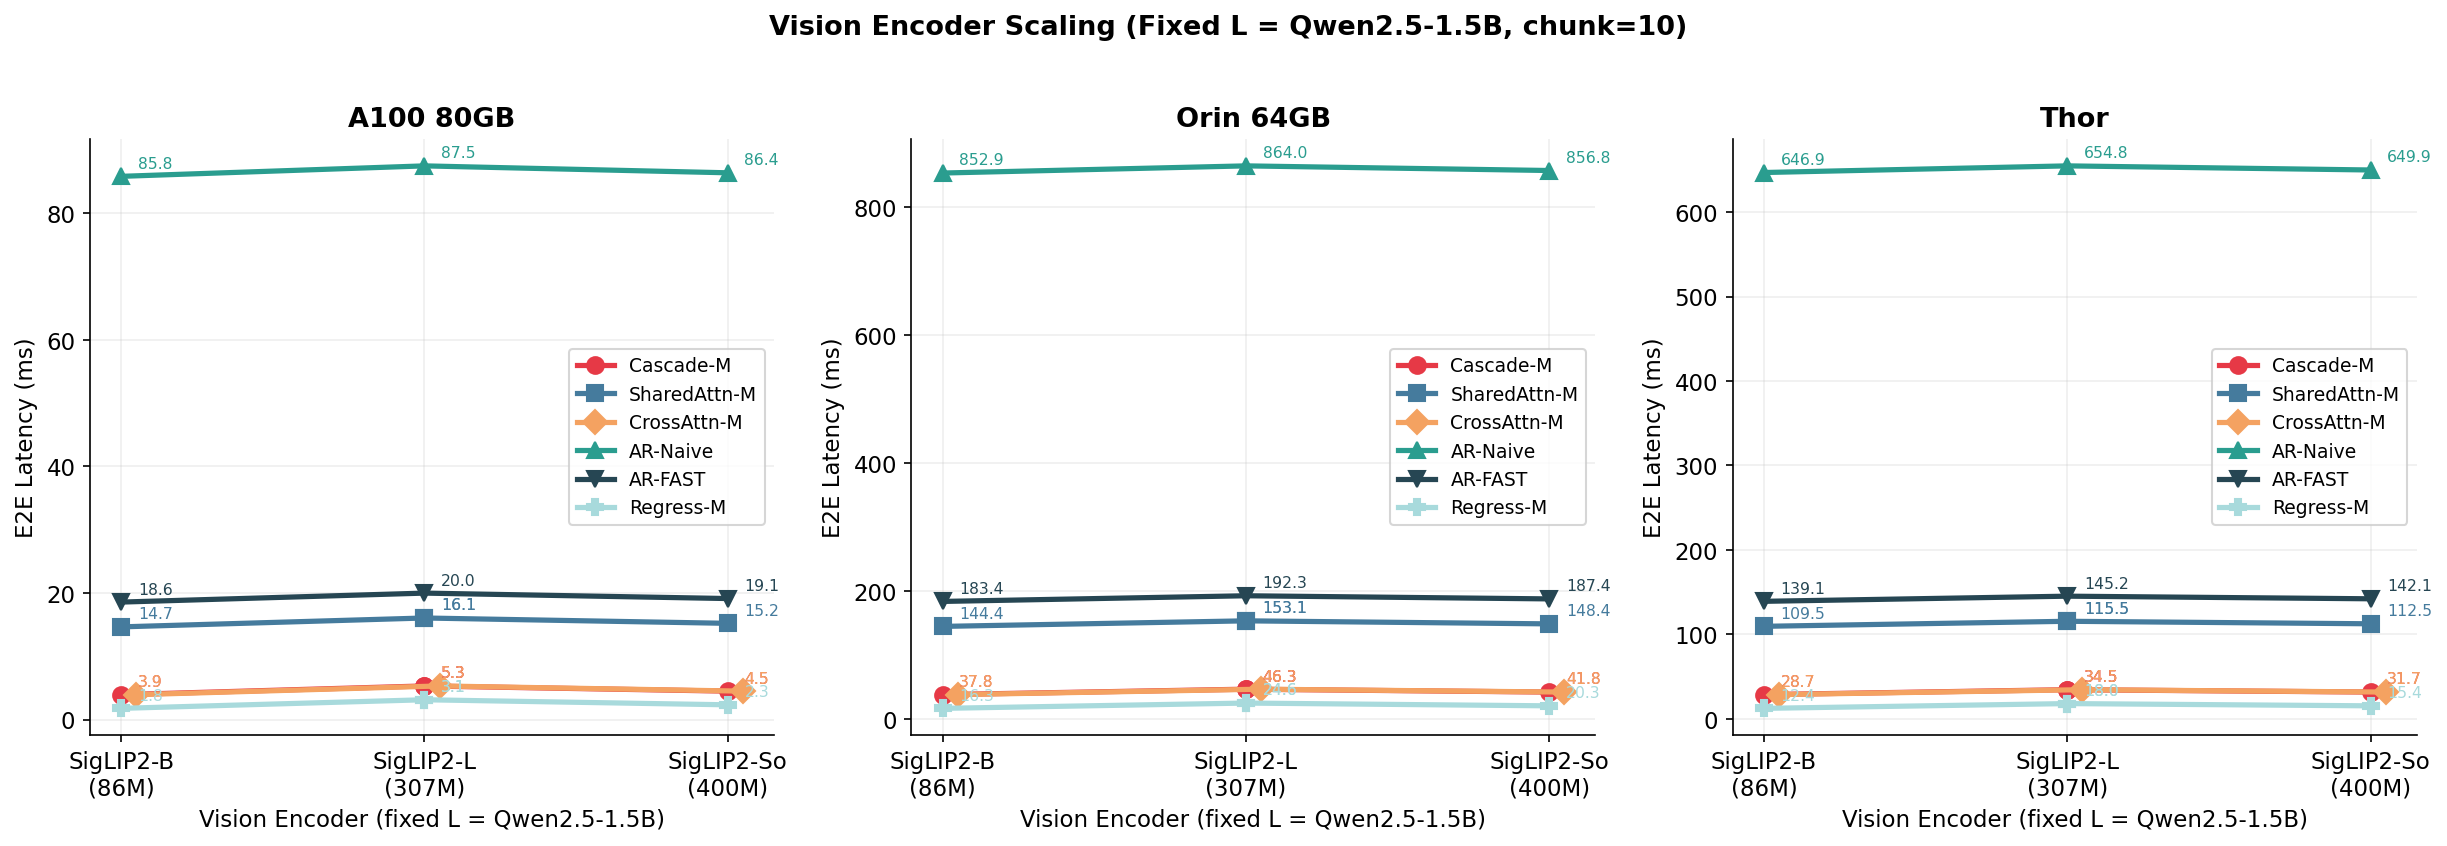
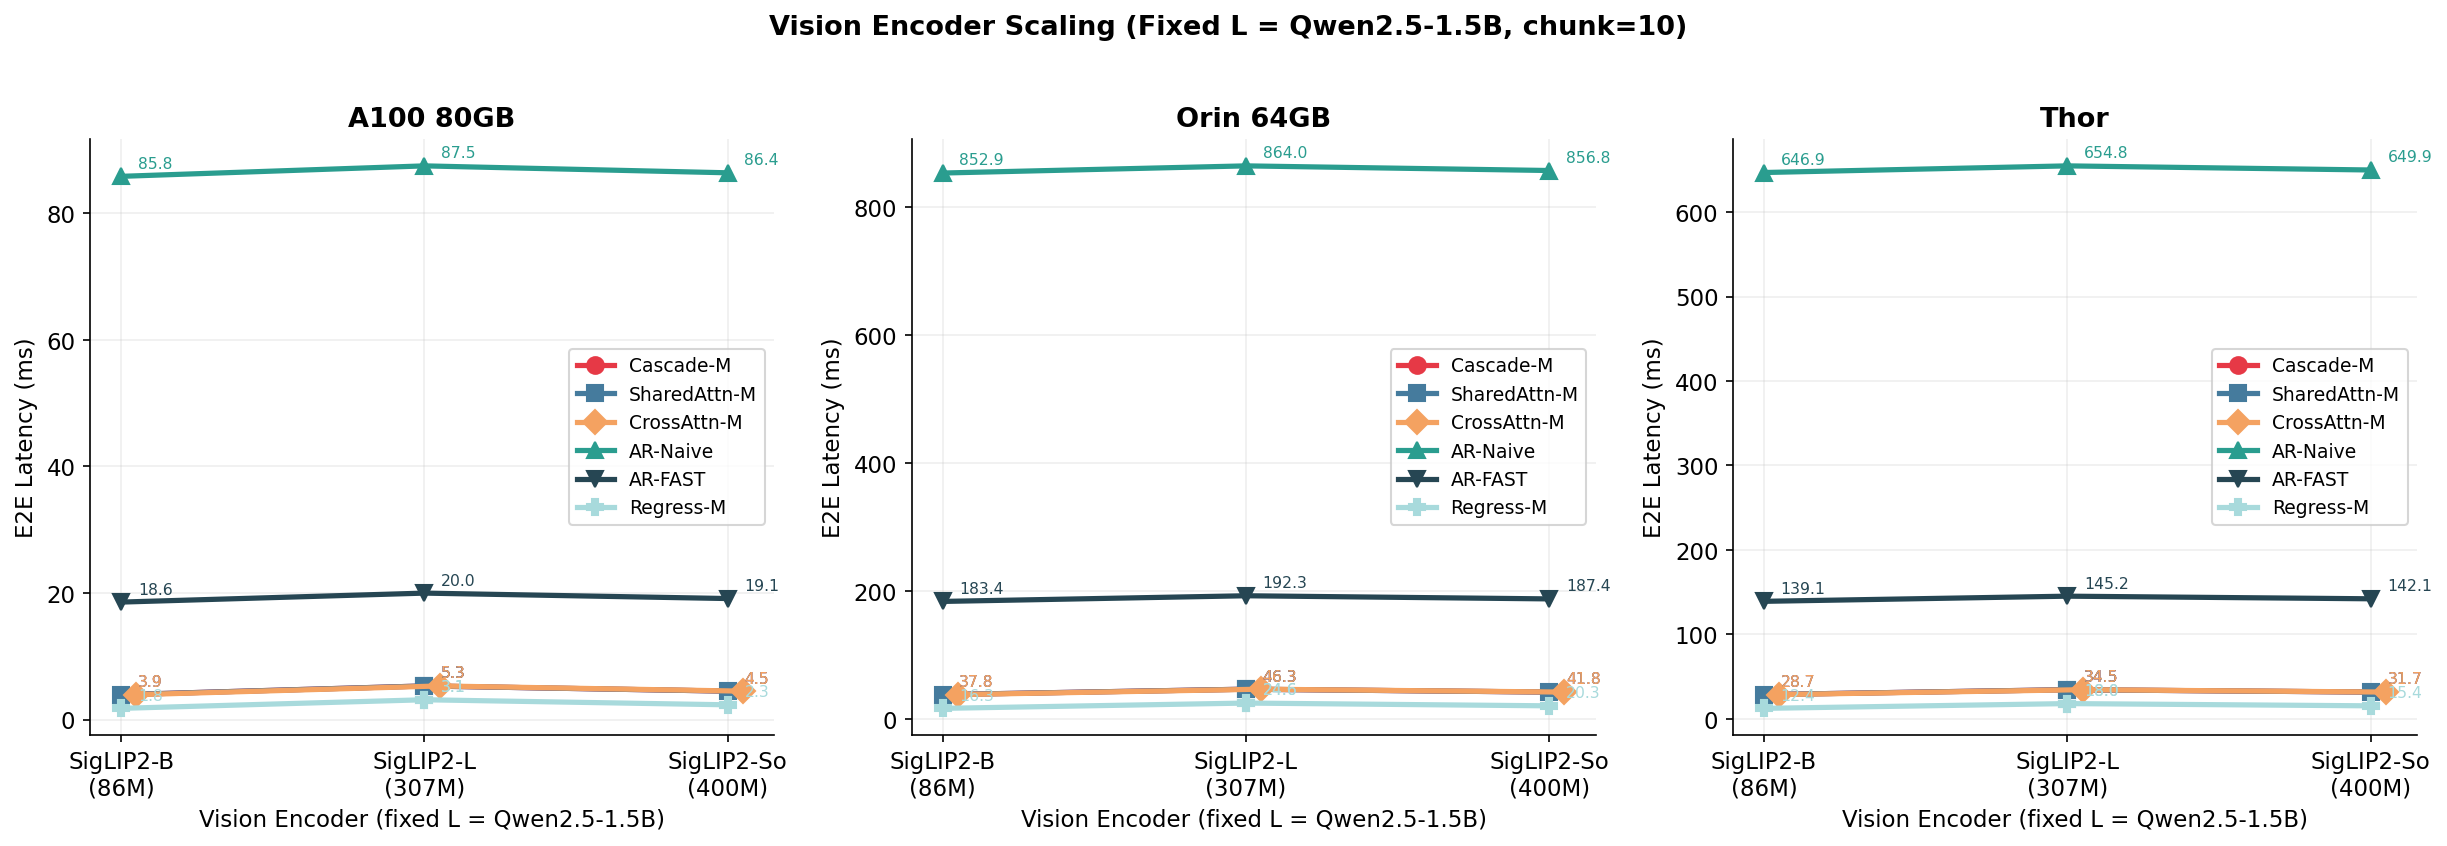
fix: SharedAttn was using VLM model instead of action expert (6x overestimate)
Bug: SharedAttn denoise used parallel_decode_modeling(VLM_model) which
runs action tokens through VLM's full layers (1536 hidden, 28 layers).
In pi0-style arch, action tokens go through the action expert's layers
(1024 hidden, 14 layers) with separate FFN but shared attention heads.

Fix: use action expert model for SharedAttn, same as Cascade/CrossAttn.
The three denoise topologies now have identical analytical latency for
the same expert size (their real-world difference is in KV cache reuse
and architectural coupling, not captured by roofline analysis).

Impact: SharedAttn-M on A100 went from 12.94ms to 2.21ms (was 5.9x too slow).

diff --git a/scripts/verify_logic.py b/scripts/verify_logic.py
@@ -1,0 +1,181 @@
+#!/usr/bin/env python3
+"""Comprehensive verification of simulation logic for all 6 action topologies."""
+
+import sys
+import logging
+from pathlib import Path
+
+PROJECT_ROOT = Path(__file__).resolve().parent.parent
+sys.path.insert(0, str(PROJECT_ROOT))
+
+logging.basicConfig(level=logging.WARNING)
+
+from vla_bench.engine import VLAPerfEngine
+from vla_bench.configs import VLAConfig, get_config_by_id
+
+engine = VLAPerfEngine(batch_size=1, bits="bf16")
+HW = "A100_80GB"
+passed = 0
+failed = 0
+
+
+def check(name, condition, msg=""):
+    global passed, failed
+    if condition:
+        print(f"  OK: {name}")
+        passed += 1
+    else:
+        print(f"  FAIL: {name} — {msg}")
+        failed += 1
+
+
+def make(vk="V-M", lk="L-M", ak="Cascade-M", chunk=None, steps=None):
+    return VLAConfig(0, "T", "T", vision_key=vk, language_key=lk,
+                     action_key=ak, chunk_size=chunk, denoising_steps=steps)
+
+
+print("=" * 80)
+print("VLA ARCHITECTURE SIMULATION LOGIC VERIFICATION")
+print("=" * 80)
+
+# ---- Test 1: Vision encoder token counts ----
+print("\n[Test 1] Vision Encoder Token Counts")
+for vk, expected in [("V-S", 256), ("V-M", 576), ("V-L", 256)]:
+    cfg = make(vk=vk)
+    check(f"{vk} tokens={cfg.vision_tokens}", cfg.vision_tokens == expected,
+          f"expected {expected}, got {cfg.vision_tokens}")
+
+# ---- Test 2: VLM sequence length ----
+print("\n[Test 2] VLM Sequence Length = vision_tokens + language_tokens")
+for vk, lk in [("V-S", "L-S"), ("V-M", "L-M"), ("V-L", "L-L")]:
+    cfg = make(vk=vk, lk=lk)
+    expected = cfg.vision_tokens + cfg.language_tokens
+    check(f"{vk}+{lk}: {cfg.vlm_sequence_length}=={expected}",
+          cfg.vlm_sequence_length == expected)
+
+# ---- Test 3: Cascade Denoise — DiT model, linear in steps ----
+print("\n[Test 3] Cascade Denoise: separate DiT, latency linear in steps")
+r10 = engine.evaluate_action(make(ak="Cascade-M"), HW)
+r20 = engine.evaluate_action(make(ak="Cascade-M", steps=20), HW)
+ratio = r20.time_ms / r10.time_ms
+check(f"steps 10->20: {r10.time_ms:.2f}->{r20.time_ms:.2f}ms, ratio={ratio:.2f}x",
+      abs(ratio - 2.0) < 0.01, f"expected 2.0x, got {ratio:.2f}x")
+
+# Size scaling: S < M < L (different DiT)
+rs = engine.evaluate_action(make(ak="Cascade-S"), HW)
+rl = engine.evaluate_action(make(ak="Cascade-L"), HW)
+check(f"S({rs.time_ms:.2f}) < M({r10.time_ms:.2f}) < L({rl.time_ms:.2f})",
+      rs.time_ms < r10.time_ms < rl.time_ms)
+
+# ---- Test 4: SharedAttn Denoise — uses action expert (pi0-style) ----
+# Pi0: action tokens go through action expert's layers (separate FFN),
+# cross-attend to VLM KV cache. Expert model determines action latency.
+print("\n[Test 4] SharedAttn Denoise: uses action expert (pi0-style)")
+sa_s = engine.evaluate_action(make(ak="SharedAttn-S"), HW)
+sa_m = engine.evaluate_action(make(ak="SharedAttn-M"), HW)
+sa_l = engine.evaluate_action(make(ak="SharedAttn-L"), HW)
+check(f"S({sa_s.time_ms:.2f}) < M({sa_m.time_ms:.2f}) < L({sa_l.time_ms:.2f})",
+      sa_s.time_ms < sa_m.time_ms < sa_l.time_ms)
+
+# SharedAttn-M == Cascade-M (same expert, same cross-attn to VLM KV)
+check(f"SharedAttn-M({sa_m.time_ms:.4f}) == Cascade-M({r10.time_ms:.4f})",
+      abs(sa_m.time_ms - r10.time_ms) < 0.01)
+
+# Action latency varies modestly with VLM seq len (affects cross-attn KV size)
+sa_small = engine.evaluate_action(make(lk="L-S", ak="SharedAttn-M"), HW)
+sa_large = engine.evaluate_action(make(lk="L-L", ak="SharedAttn-M"), HW)
+check(f"L-S({sa_small.time_ms:.2f}) ~ L-L({sa_large.time_ms:.2f}), ratio<2x",
+      sa_large.time_ms / sa_small.time_ms < 2.0)
+
+# ---- Test 5: CrossAttn Denoise — same as Cascade analytically ----
+print("\n[Test 5] CrossAttn Denoise: analytically identical to Cascade")
+ca = engine.evaluate_action(make(ak="CrossAttn-M"), HW)
+check(f"CrossAttn-M({ca.time_ms:.4f}) == Cascade-M({r10.time_ms:.4f})",
+      abs(ca.time_ms - r10.time_ms) < 0.01)
+
+# ---- Test 6: AR-Naive — dof * chunk tokens, linear scaling ----
+print("\n[Test 6] AR-Naive: tokens = dof * chunk, linear in both")
+ar1 = engine.evaluate_action(make(ak="AR-Naive", chunk=1), HW)
+ar10 = engine.evaluate_action(make(ak="AR-Naive", chunk=10), HW)
+ratio = ar10.time_ms / ar1.time_ms
+check(f"chunk 1->10: {ar1.time_ms:.2f}->{ar10.time_ms:.2f}ms, ratio={ratio:.1f}x",
+      abs(ratio - 10.0) < 0.2, f"expected 10x, got {ratio:.1f}x")
+
+# Verify token count: chunk=1, dof=7 → 7 tokens
+ar2 = engine.evaluate_action(make(ak="AR-Naive", chunk=2), HW)
+ratio2 = ar2.time_ms / ar1.time_ms
+check(f"chunk 1->2: ratio={ratio2:.2f}x (expected 2.0x)", abs(ratio2 - 2.0) < 0.1)
+
+# AR scales with VLM size
+ar_s = engine.evaluate_action(make(lk="L-S", ak="AR-Naive", chunk=10), HW)
+ar_l = engine.evaluate_action(make(lk="L-L", ak="AR-Naive", chunk=10), HW)
+check(f"VLM L-S({ar_s.time_ms:.2f}) < L-L({ar_l.time_ms:.2f})",
+      ar_l.time_ms > ar_s.time_ms * 1.5)
+
+# ---- Test 7: AR-FAST — ~5x compression vs Naive ----
+print("\n[Test 7] AR-FAST: ~5x fewer tokens than AR-Naive")
+fast10 = engine.evaluate_action(make(ak="AR-FAST", chunk=10), HW)
+ratio = ar10.time_ms / fast10.time_ms
+check(f"Naive({ar10.time_ms:.2f}) / FAST({fast10.time_ms:.2f}) = {ratio:.1f}x",
+      abs(ratio - 5.0) < 0.2, f"expected ~5x, got {ratio:.1f}x")
+
+# Verify exact token count: chunk=10, dof=7 → naive=70, FAST=70/5=14
+fast1 = engine.evaluate_action(make(ak="AR-FAST", chunk=1), HW)
+fast_ratio = fast10.time_ms / fast1.time_ms
+# chunk=1: naive=7, FAST=max(1, 7//5)=1 token; chunk=10: FAST=14 tokens
+check(f"FAST chunk 1->10 ratio={fast_ratio:.1f}x (expected 14x)",
+      abs(fast_ratio - 14.0) < 1.0, f"got {fast_ratio:.1f}x")
+
+# ---- Test 8: Regression — single MLP pass, chunk-invariant ----
+print("\n[Test 8] Regression: single pass, near-zero, chunk-invariant")
+reg = engine.evaluate_action(make(ak="Regress-M"), HW)
+check(f"Regress-M: {reg.time_ms:.4f}ms < 0.5ms", reg.time_ms < 0.5)
+
+reg50 = engine.evaluate_action(make(ak="Regress-M", chunk=50), HW)
+check(f"chunk=10({reg.time_ms:.4f}) == chunk=50({reg50.time_ms:.4f})",
+      abs(reg.time_ms - reg50.time_ms) < 0.001)
+
+# Size has minimal effect
+reg_s = engine.evaluate_action(make(ak="Regress-S"), HW)
+reg_l = engine.evaluate_action(make(ak="Regress-L"), HW)
+check(f"All < 0.1ms: S={reg_s.time_ms:.4f}, M={reg.time_ms:.4f}, L={reg_l.time_ms:.4f}",
+      max(reg_s.time_ms, reg.time_ms, reg_l.time_ms) < 0.1)
+
+# Regression does NOT scale with VLM (uses separate MLP)
+reg_s_vlm = engine.evaluate_action(make(lk="L-S", ak="Regress-M"), HW)
+reg_l_vlm = engine.evaluate_action(make(lk="L-L", ak="Regress-M"), HW)
+check(f"VLM-invariant: L-S({reg_s_vlm.time_ms:.4f}) == L-L({reg_l_vlm.time_ms:.4f})",
+      abs(reg_s_vlm.time_ms - reg_l_vlm.time_ms) < 0.001)
+
+# ---- Test 9: E2E = Vision + VLM + Action ----
+print("\n[Test 9] E2E = Vision + VLM + Action")
+for cid in [1, 17, 32, 44, 55]:
+    try:
+        cfg = get_config_by_id(cid)
+    except ValueError:
+        continue
+    r = engine.evaluate_e2e(cfg, HW)
+    if r is None:
+        continue
+    expected = r["vision_time_ms"] + r["vlm_time_ms"] + r["action_time_ms"]
+    check(f"#{cid} E2E={r['e2e_time_ms']:.4f} == V+L+A={expected:.4f}",
+          abs(r["e2e_time_ms"] - expected) < 0.001)
+    check(f"#{cid} Hz={r['e2e_hz']:.1f} == 1000/{r['e2e_time_ms']:.2f}",
+          abs(r["e2e_hz"] - 1000 / r["e2e_time_ms"]) < 0.01)
+
+# ---- Test 10: Memory fit with model_name=None (AR types) ----
+print("\n[Test 10] Memory Fit Check (model_name=None)")
+for ak in ["AR-Naive", "AR-FAST"]:
+    cfg = make(ak=ak)
+    fits, reason = engine.check_memory_fit(cfg, HW)
+    check(f"{ak} on A100: {reason}", fits)
+
+# ---- Summary ----
+print("\n" + "=" * 80)
+total = passed + failed
+print(f"RESULTS: {passed}/{total} passed, {failed}/{total} failed")
+if failed == 0:
+    print("ALL TESTS PASSED")
+else:
+    print("SOME TESTS FAILED — review output above")
+    sys.exit(1)

diff --git a/vla_bench/engine.py b/vla_bench/engine.py
@@ -1,14 +1,18 @@
 """
 VLA Performance Evaluation Engine
 
-Wraps GenZ's roofline analysis to evaluate all 4 action head types:
-  - Flow Matching (FM): parallel_decode × N denoising steps
-  - Diffusion (Diff): parallel_decode × N denoising steps
-  - Autoregressive (AR): decode, sequential token generation
-  - MLP: prefill with 1 token through shallow model
+Wraps GenZ's roofline analysis for 6 action head topologies:
+  - Cascade Denoise:   parallel_decode(DiT) × N steps
+  - SharedAttn Denoise: parallel_decode(action expert) × N steps
+      Action expert's transformer layers, cross-attn to VLM KV cache.
+      Attention heads shared with VLM, but FFN weights are separate.
+  - CrossAttn Denoise: parallel_decode(DiT) × N steps
+  - AR-Naive:  decode(VLM) × (dof × chunk_size)
+  - AR-FAST:   decode(VLM) × (dof × chunk_size / 5)
+  - Regression: prefill(MLP) × 1 token
 
 Outputs per-component latency breakdown:
-  Vision Encoder | Projector | Language Backbone | Action Head
+  Vision Encoder | Language Backbone | Action Head
 """
 
 import sys
@@ -308,13 +312,16 @@ class VLAPerfEngine:
             )
 
         elif action_type == "shared_attn_denoise":
-            # SharedAttn (pi0-style): action tokens enter VLM's self-attention
-            # KV cache from VLM observation tokens is reused across denoising steps
-            # Per step: only action tokens are recomputed (parallel decode on VLM)
-            # Use VLM backbone model (not separate DiT) for the shared attention pass
-            l = config.language
+            # SharedAttn (pi0-style): action tokens share VLM's self-attention
+            # layers but have SEPARATE FFN weights (action expert's FFN).
+            # KV cache from VLM observation tokens is reused across denoising steps.
+            # Per step: action tokens are processed through the action expert's
+            # transformer layers (not VLM's), cross-attending to VLM's KV cache.
+            #
+            # Key: use action expert model (determines FFN size and layer count),
+            # NOT the VLM model. The VLM only contributes the KV cache context.
             single_step = self._run_parallel_decode(
-                model_name=l["model_name"],
+                model_name=a["model_name"],
                 system=system,
                 input_tokens=config.vlm_sequence_length,
                 output_tokens_parallel=chunk_size,
